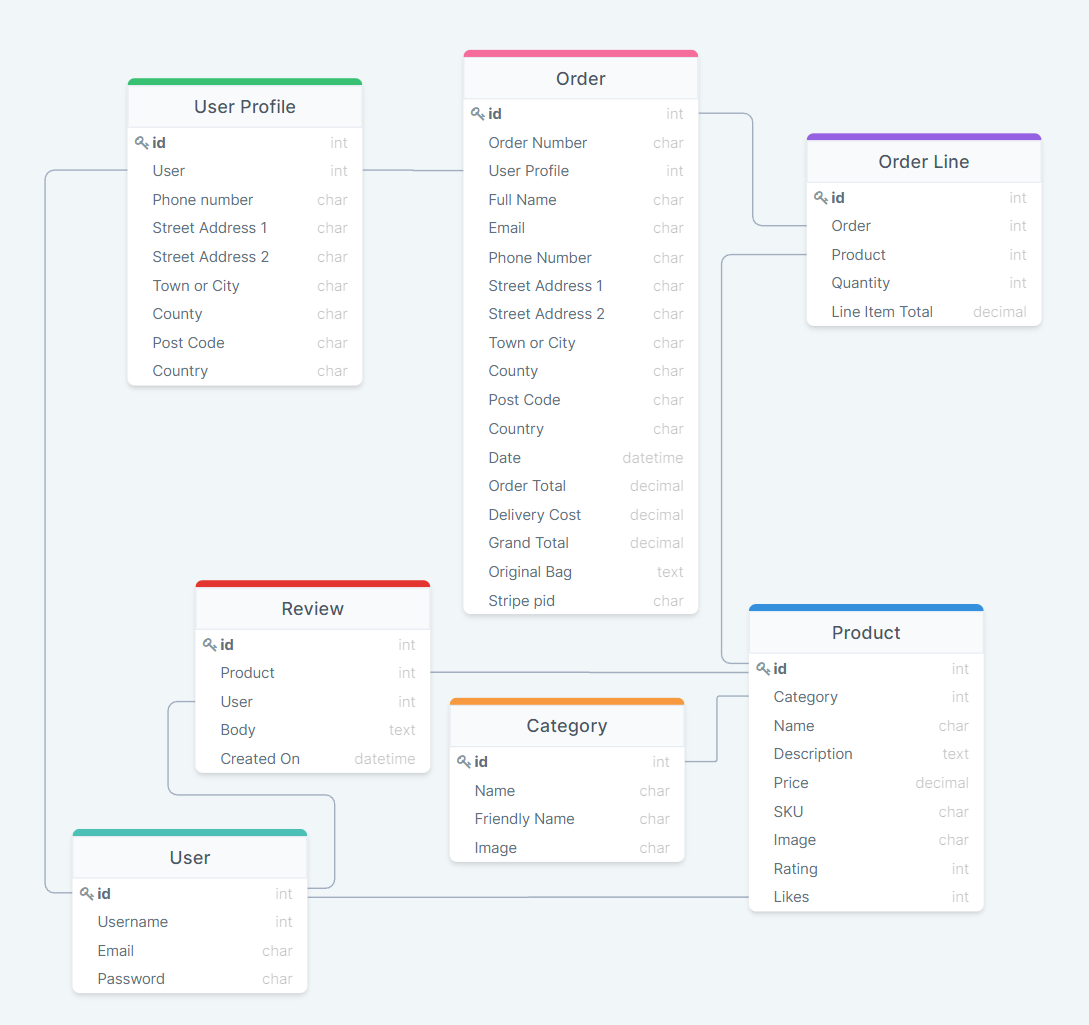
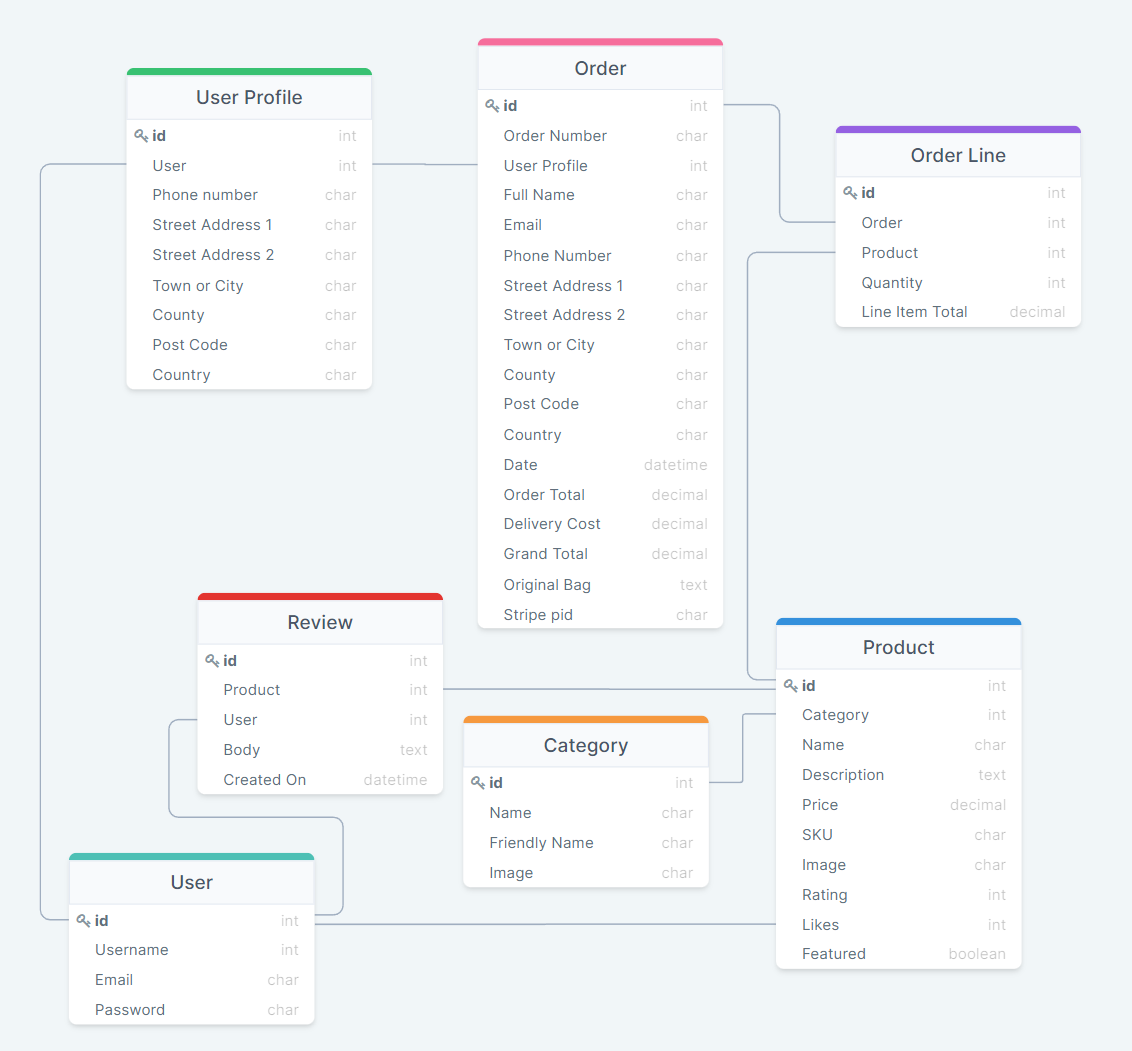
add featured field to product model, refactored product rating in all products template

diff --git a/products/templates/products/products.html b/products/templates/products/products.html
@@ -33,6 +33,7 @@
             <div class="row pt-3">
                 <div class="col whats-hot">
                     <h4>Whats Hot!</h4>
+                    {% for product in products %}
                 </div>
             </div>
         </div>
@@ -52,21 +53,17 @@
                             {% elif product.rating >= 4 %}
                             <i class="fa fa-solid fa-star"></i><i class="fa fa-solid fa-star"></i><i class="fa fa-solid fa-star"></i><i class="fa fa-solid fa-star"></i><i class="fa fa-solid fa-star-half"></i>
                             {% elif product.rating >= 3.5 %}
-                            <i class="fa fa-solid fa-star"></i><i class="fa fa-solid fa-star"></i><i class="fa fa-solid fa-star"></i><i class="fa fa-solid fa-star"></i><i class="fa fa-star-o"></i>
+                            <i class="fa fa-solid fa-star"></i><i class="fa fa-solid fa-star"></i><i class="fa fa-solid fa-star"></i><i class="fa fa-solid fa-star"></i>
                             {% elif product.rating >= 3 %}
-                            <i class="fa fa-solid fa-star"></i></i><i class="fa fa-solid fa-star"></i><i class="fa fa-solid fa-star"></i><i class="fa fa-solid fa-star-half"></i><i class="fa fa-star-o"></i>
+                            <i class="fa fa-solid fa-star"></i></i><i class="fa fa-solid fa-star"></i><i class="fa fa-solid fa-star"></i><i class="fa fa-solid fa-star-half"></i>
                             {% elif product.rating >= 2.5 %}
-                            <i class="fa fa-solid fa-star"></i><i class="fa fa-solid fa-star"></i><i class="fa fa-solid fa-star"></i><i class="fa fa-star-o"></i><i class="fa fa-star-o"></i>
+                            <i class="fa fa-solid fa-star"></i><i class="fa fa-solid fa-star"></i><i class="fa fa-solid fa-star"></i>
                             {% elif product.rating >= 2 %}
-                            </i><i class="fa fa-solid fa-star"></i><i class="fa fa-solid fa-star"></i><i class="fa fa-solid fa-star-half"></i><i class="fa fa-star-o"></i><i class="fa fa-star-o"></i>
+                            </i><i class="fa fa-solid fa-star"></i><i class="fa fa-solid fa-star"></i><i class="fa fa-solid fa-star-half"></i>
                             {% elif product.rating >= 1.5 %}
-                            <i class="fa fa-solid fa-star"></i><i class="fa fa-solid fa-star"></i><i class="fa fa-star-o"></i><i class="fa fa-star-o"></i><i class="fa fa-star-o"></i>
+                            <i class="fa fa-solid fa-star"></i><i class="fa fa-solid fa-star"></i>
                             {% elif product.rating >= 1 %}
-                            <i class="fa fa-solid fa-star"></i><i class="fa fa-star-o"></i><i class="fa fa-star-o"></i><i class="fa fa-star-o"></i><i class="fa fa-star-o"></i>
-                            {% elif product.rating >= 0.5 %}
-                            <i class="fa fa-solid fa-star-half"></i><i class="fa fa-star-o"></i><i class="fa fa-star-o"></i><i class="fa fa-star-o"></i><i class="fa fa-star-o"></i>
-                            {% elif product.rating >= 0.0 %}
-                            <i class="fa fa-star-o"></i><i class="fa fa-star-o"></i><i class="fa fa-star-o"></i><i class="fa fa-star-o"></i><i class="fa fa-star-o"></i>
+                            <i class="fa fa-solid fa-star"></i>
                             {% else %}
                             <p>No Rating</p>
                             {% endif %}

diff --git a/products/migrations/0002_product_featured.py b/products/migrations/0002_product_featured.py
@@ -1,0 +1,18 @@
+# Generated by Django 3.2 on 2022-04-27 08:59
+
+from django.db import migrations, models
+
+
+class Migration(migrations.Migration):
+
+    dependencies = [
+        ('products', '0001_initial'),
+    ]
+
+    operations = [
+        migrations.AddField(
+            model_name='product',
+            name='featured',
+            field=models.BooleanField(default=False),
+        ),
+    ]

diff --git a/products/models.py b/products/models.py
@@ -43,6 +43,7 @@ class Product(models.Model):
         related_name='recipe_likes',
         blank=True
         )
+    featured = models.BooleanField(default=False)
 
     def __str__(self):
         return self.name
